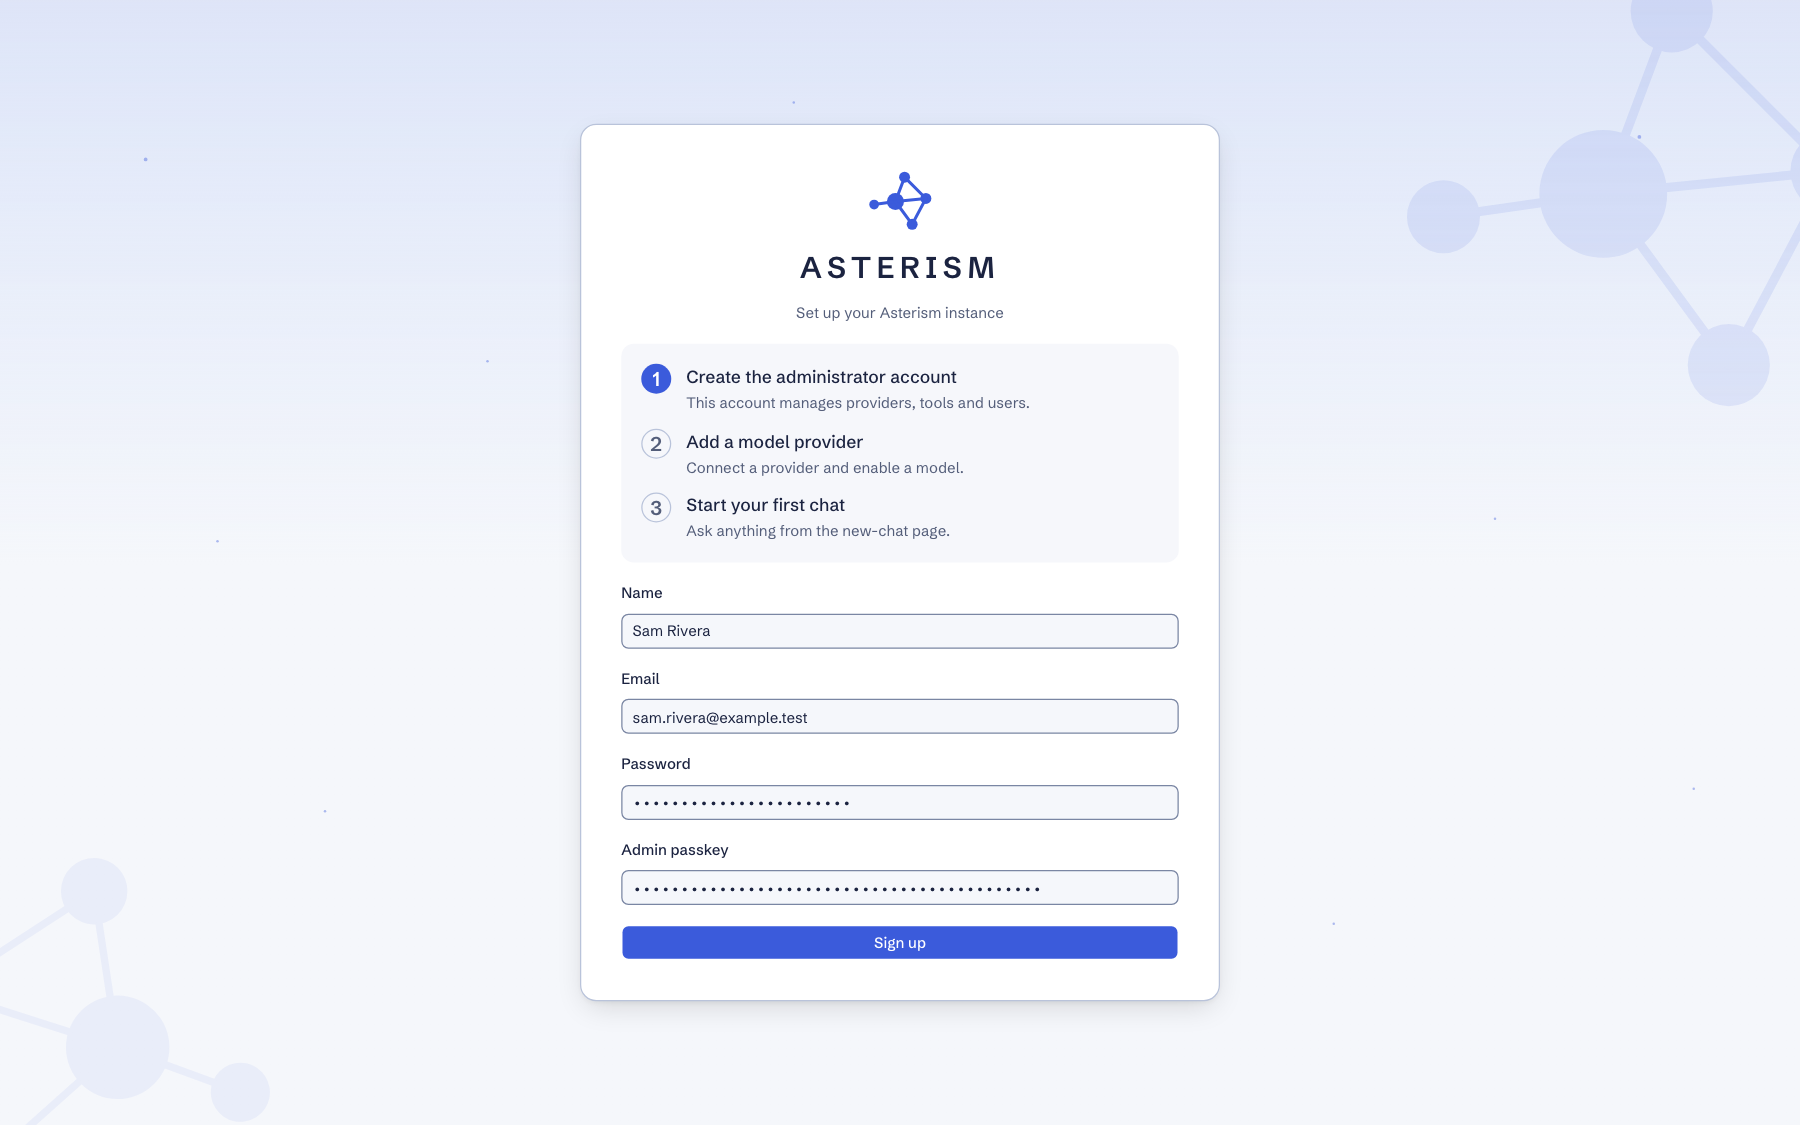
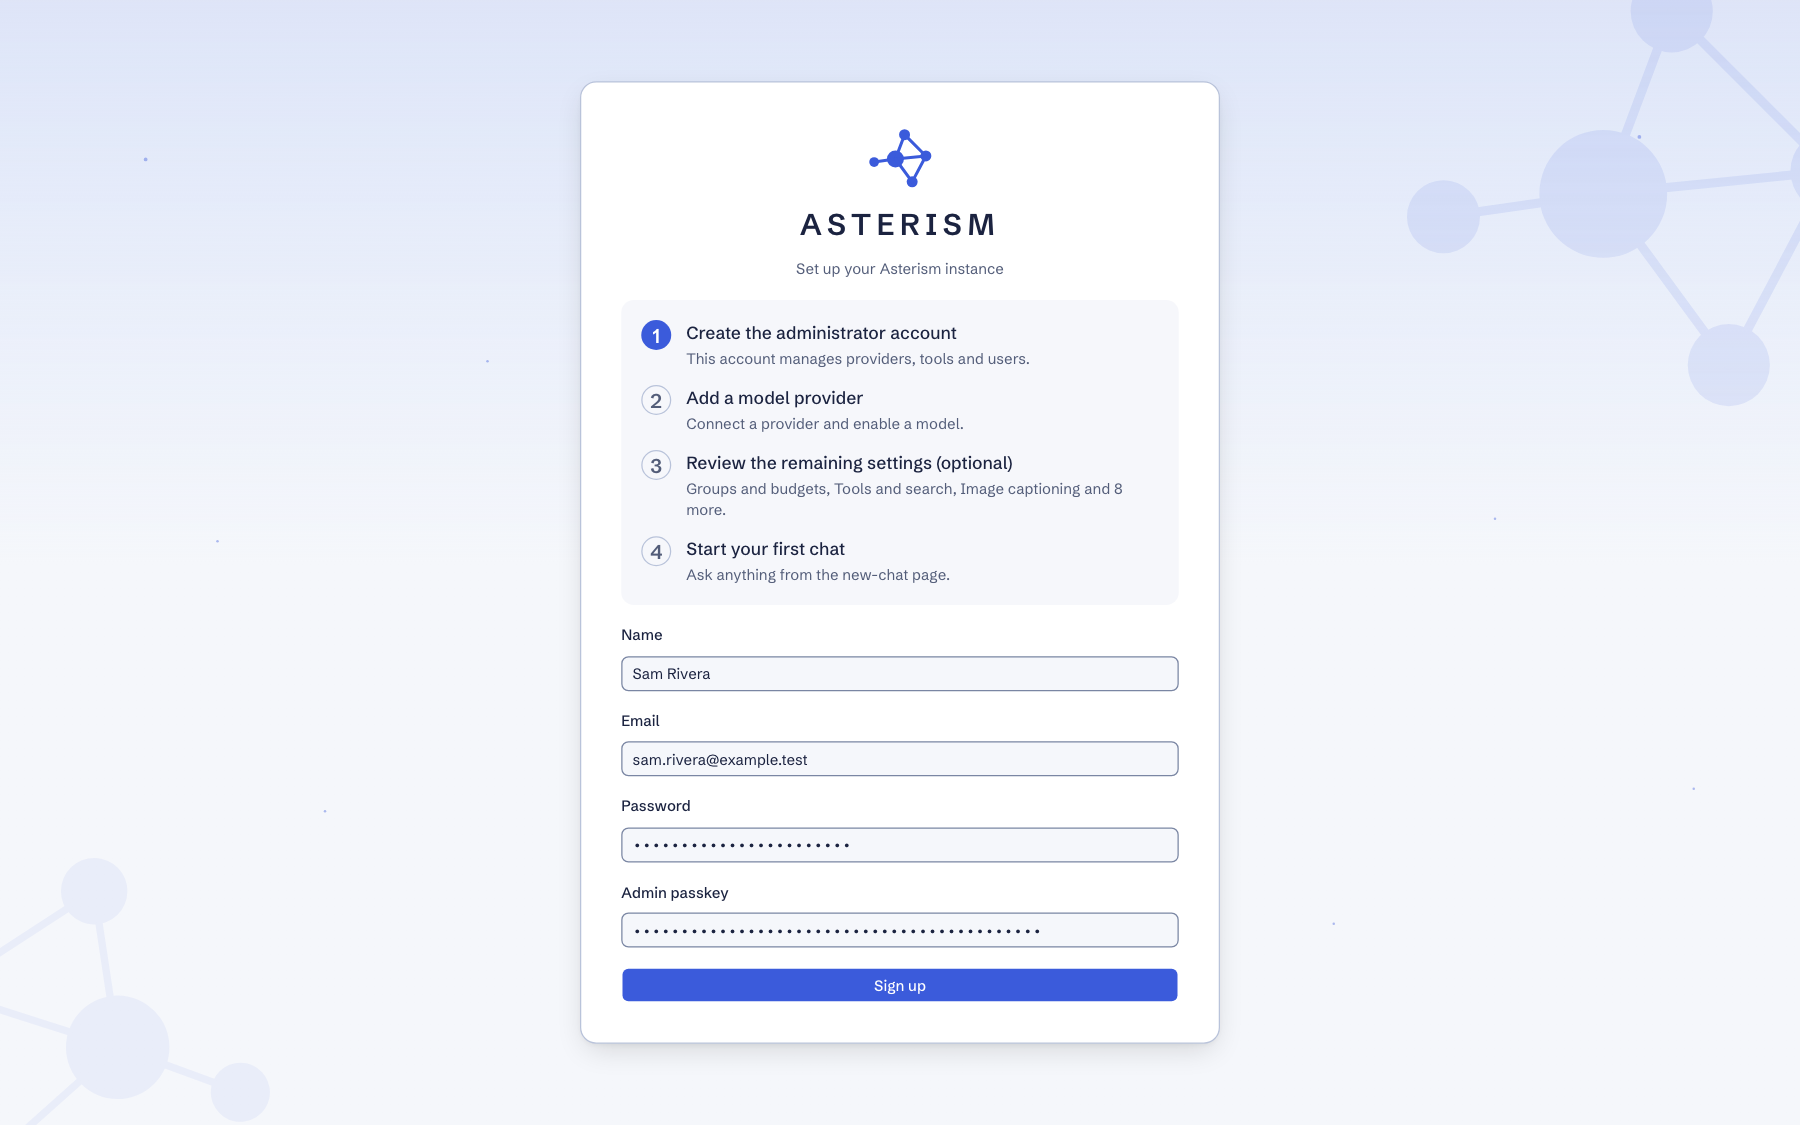
docs(setup): refresh setup screenshots and guide text (US-102.4)
Regenerates the six first-run and walkthrough screenshots for the
four-step checklist, the 12 setup steps and the Reviewed chip, updates
their alt text, and describes Save and continue in deployment §5.

Changed region(s): [[0.3111, 0.5289, 0.6844, 0.9333], [0.3422, 0.28, 0.56, 0.5289], [0.3111, 0.0622, 0.6844, 0.2489]]

diff --git a/docs/guide/08-for-administrators/first-time-setup.md b/docs/guide/08-for-administrators/first-time-setup.md
@@ -25,7 +25,7 @@ running and you open its address for the first time.
 
 1. Open Asterism's address. It says **Set up your Asterism instance**.
 
-   ![The first-run sign-up form, asking for the administrator's name, email, password and the admin passkey](../images/setup-admin-account.png)
+   ![The first-run sign-up form, with the four setup steps above it and the first current, asking for the administrator's name, email, password and the admin passkey](../images/setup-admin-account.png)
 
 2. Type your **Name**, **Email** and a **Password**.
 3. Type the **Admin passkey**.
@@ -61,7 +61,7 @@ choose the file exported from it, with its passphrase.
    tasks for everyone. A small, fast model works best.
 4. Select **Continue**.
 
-   ![The setup card saying you're ready, with Continue setup and Start chatting buttons](../images/setup-ready.png)
+   ![The setup card saying you're ready, with Review the remaining settings as the current step, and Continue setup and Start chatting buttons](../images/setup-ready.png)
 
 5. Asterism can be used now. The card's list marks **Review the remaining
    settings (optional)** as the current step. Select **Continue setup** to go
@@ -75,7 +75,7 @@ providers and models at any time in **Admin Settings** › **Providers**.
 The walkthrough is in **Admin Settings** › **Setup**. It lists every setup step
 on the left; Providers and models is already reviewed.
 
-![Admin Settings, Setup: the list of setup steps with Providers and models done, and the Image captioning step explaining that search can't find pictures while captioning is off, with Next, Skip for now and the captioning settings below](../images/admin-setup-step.png)
+![Admin Settings, Setup: the list of setup steps with Providers and models reviewed, and the Image captioning step explaining that search can't find pictures while captioning is off, with Next, Skip for now and the captioning settings below](../images/admin-setup-step.png)
 
 Each step explains what the setting does, what it starts as and what people see
 while it is off, with a link to its page in this guide. That setting's own

diff --git a/docs/deployment.md b/docs/deployment.md
@@ -291,9 +291,11 @@ are listed under [security defaults](#security-defaults).
    (the setup command printed it).
 2. Follow the setup card to connect a model provider and enable a model, or
    import a settings file exported from another installation.
-3. Select **Continue setup**. Admin Settings → Setup walks through every
-   administrator setting in order, saying what each does and its default, with
-   **Next** and **Skip for now** on each step. Progress is stored on the server,
+3. Select **Continue setup**. Admin Settings → Setup walks through the
+   administrator settings in order, saying what each does and its default.
+   **Save and continue** (or **Next**, with nothing to save) saves the step's
+   changes and moves on; **Skip for now** saves nothing and leaves the step for
+   later. Progress is stored on the server,
    so any administrator can resume it later. The steps cover groups and budgets,
    the usage time zone, tools, image captioning (off by default; **search can't
    find pictures until it is on**), each feature policy and context compaction.

diff --git a/docs/epics/EPIC-102-SETUP-WALKTHROUGH-FOLLOW-UPS.md b/docs/epics/EPIC-102-SETUP-WALKTHROUGH-FOLLOW-UPS.md
@@ -169,12 +169,12 @@ Suggested order: US-102.1 → 102.2 → 102.3 → 102.4. Work one story at a tim
 
 ### US-102.4: Docs and release notes
 
-- [ ] Update `docs/guide/08-for-administrators/first-time-setup.md`: the
+- [x] Update `docs/guide/08-for-administrators/first-time-setup.md`: the
       four-step checklist, Save and continue versus Skip for now, and the shorter
       step list. Refresh its screenshots (`pnpm docs:check`). Point to Theme
       editor, Educators and backup docs from their own pages.
-- [ ] Update `docs/deployment.md` §5 if it lists the walkthrough steps.
-- [ ] Release notes, under Behavior: setup's Next saves unsaved changes, and Skip
+- [x] Update `docs/deployment.md` §5 if it lists the walkthrough steps.
+- [x] Release notes, under Behavior: setup's Next saves unsaved changes, and Skip
       asks before discarding them; theme, educators and first backup are no
       longer setup steps.
 

diff --git a/todo.md b/todo.md
@@ -92,5 +92,5 @@ Source: user review of the EPIC-101 install flow (2026-11-24). See [EPIC-102](do
 
 ### US-102.4: Docs and release notes
 
-- [ ] Update `first-time-setup.md` with refreshed screenshots (`pnpm docs:check`) and `docs/deployment.md` §5 if needed.
-- [ ] Release notes (Behavior).
+- [x] Update `first-time-setup.md` with refreshed screenshots (`pnpm docs:check`) and `docs/deployment.md` §5 if needed.
+- [x] Release notes (Behavior).
